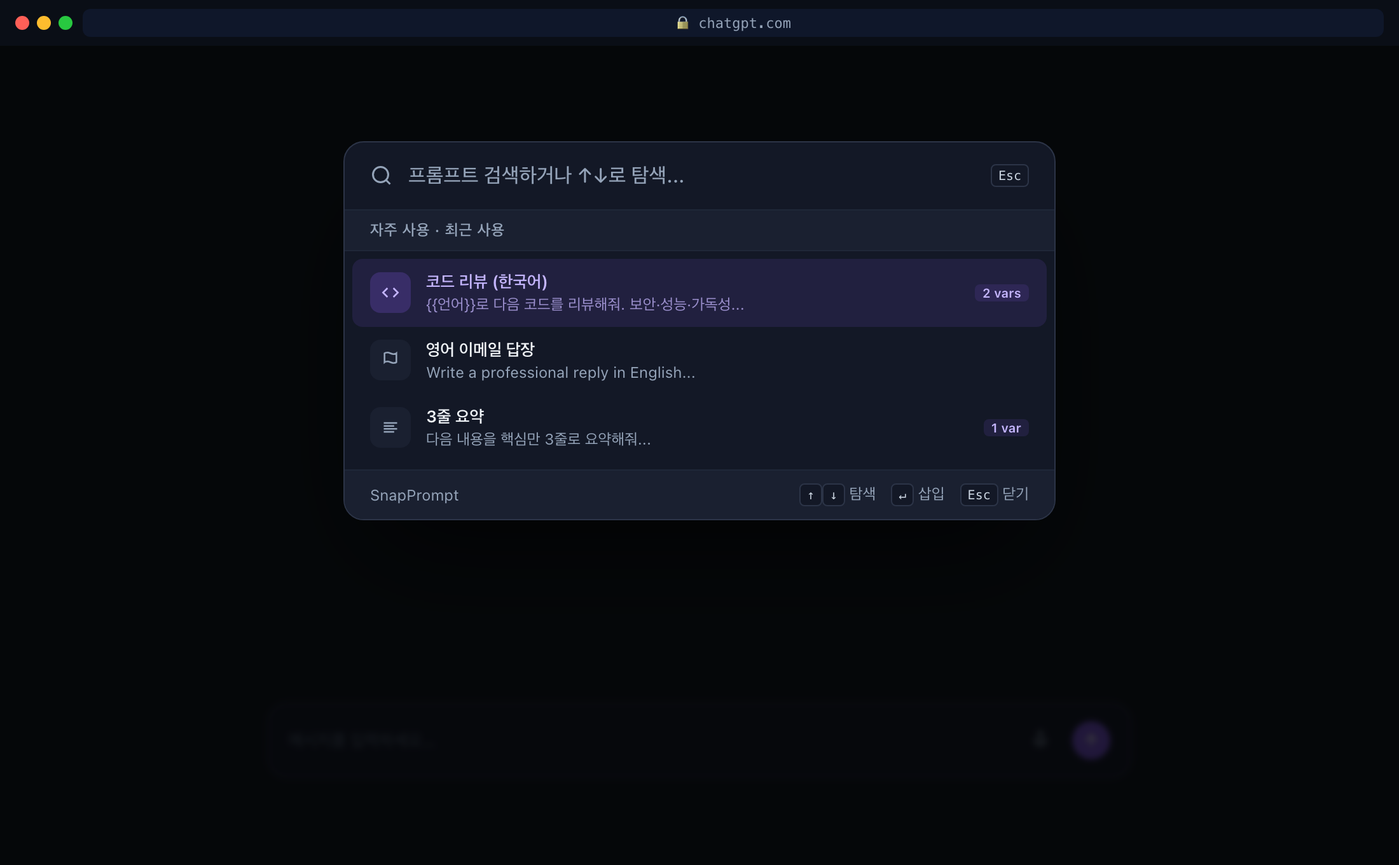
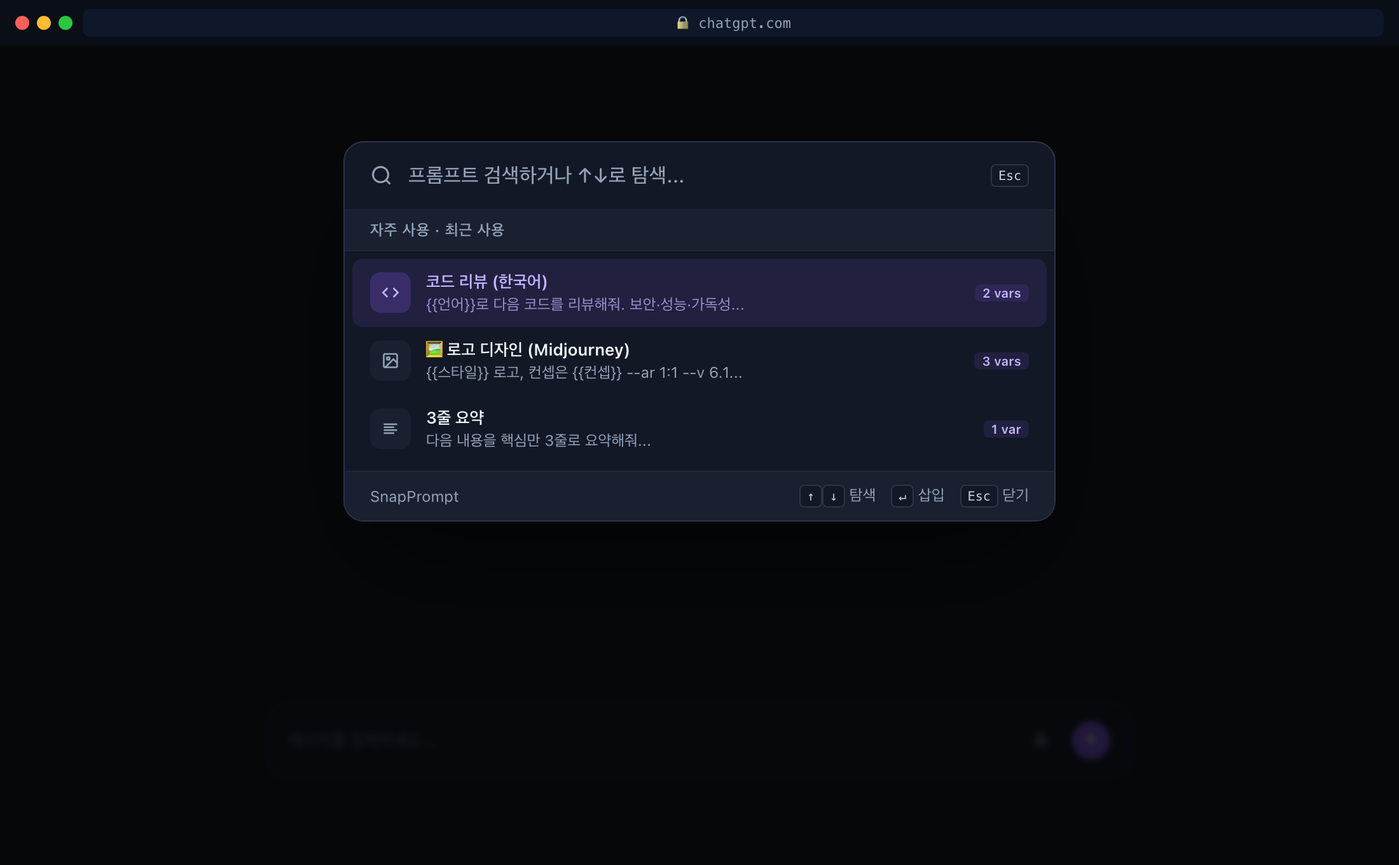
docs: README 스크린샷 일괄 갱신 (Round B/C/D 반영)
- design/shots.html을 현재 UI에 동기화: 팝업 모드 전환기·핀 바·종류 배지,
  피커 배지, 변수 모달(최근 사용값·파라미터 토글·조립 프리뷰),
  옵션 '기록' 탭. 신규 프레임 image(이미지/영상 옵션)·history(버전·비교) 추가.
- docs/images/* 8장 헤드리스 2x 재생성 + image.png·history.png 신규.
- README: 변수 8타입+조건부 표, 이미지·영상 옵션/버전 히스토리·A/B 섹션,
  마지막 모드 기억, 프로젝트 구조(components·assemble·imageparams·10탭) 갱신.
- CLAUDE.md 스크린샷 절차에 신규 프레임/사이즈 반영.

🤖 Generated with [Claude Code](https://claude.com/claude-code)

diff --git a/design/shots.html b/design/shots.html
@@ -160,6 +160,55 @@
   .track i{display:block;height:100%;background:var(--grad);border-radius:var(--r-full)}
   .bs{width:48px;text-align:right;font-size:11px;color:var(--text-muted);font-family:var(--mono)}
 
+  /* ===== Round C/D additions ===== */
+  /* mode switch + pin bar + kind badge (popup) */
+  .modesw{display:inline-flex;gap:2px;padding:2px;border-radius:var(--r-md);background:var(--bg-subtle)}
+  .modesw .m{width:26px;height:24px;border-radius:var(--r-sm);display:grid;place-items:center;color:var(--text-muted)}
+  .modesw .m.on{background:var(--grad);color:#fff}
+  .pinbar{display:flex;gap:6px;flex-wrap:wrap;padding:10px 10px 2px}
+  .pin{display:inline-flex;align-items:center;gap:5px;height:26px;padding:0 10px;border-radius:var(--r-full);border:1px solid var(--border-default);background:var(--bg-surface);font-size:11px;color:var(--text-secondary)}
+  .pin .star{color:var(--warning-500)}
+  .kind{font-size:13px;flex-shrink:0}
+  /* param toggles + recent chips (vars modal) */
+  .ptog{display:flex;flex-direction:column;gap:9px}
+  .prow{display:flex;align-items:center;gap:10px}
+  .prow.off{opacity:.5}
+  .sw{width:34px;height:19px;border-radius:var(--r-full);background:var(--accent);position:relative;flex-shrink:0}
+  .sw.off{background:var(--border-default)}
+  .sw::after{content:'';width:15px;height:15px;border-radius:50%;background:#fff;position:absolute;top:2px;left:17px}
+  .sw.off::after{left:2px}
+  .pname{flex:1;font-size:13px}
+  .pval{height:28px;padding:0 9px;border:1px solid var(--border-default);border-radius:var(--r-sm);background:var(--bg-surface);font-size:12px;display:inline-flex;align-items:center;color:var(--text-secondary);font-family:var(--mono)}
+  .recent{display:flex;align-items:center;gap:6px;flex-wrap:wrap}
+  .rlbl{font-size:11px;color:var(--text-muted)}
+  .rchip{padding:3px 9px;border-radius:var(--r-full);border:1px solid var(--border-default);background:var(--bg-surface);font-size:11px;color:var(--text-secondary)}
+  /* image options editor */
+  .ioseg{display:inline-flex;gap:2px;padding:2px;border-radius:var(--r-md);background:var(--bg-subtle)}
+  .ioseg .s{padding:5px 13px;border-radius:var(--r-sm);font-size:.75rem;color:var(--text-secondary);font-weight:var(--w-med)}
+  .ioseg .s.on{background:var(--grad);color:#fff}
+  .iosec{border:1px solid var(--border-subtle);border-radius:var(--r-md);padding:12px;display:flex;flex-direction:column;gap:10px;background:var(--bg-surface)}
+  .iohd{font-size:.75rem;font-weight:var(--w-semi);color:var(--text-primary)}
+  .iochips{display:flex;flex-wrap:wrap;gap:5px}
+  .iochip{padding:3px 9px;border-radius:var(--r-full);border:1px solid var(--border-default);background:var(--bg-surface);font-size:11px;color:var(--text-secondary)}
+  .iopack{font-size:11px;color:var(--text-muted)}
+  .ioout{font-family:var(--mono);font-size:11.5px;line-height:1.55;color:var(--text-secondary);background:var(--bg-subtle);border-radius:var(--r-sm);padding:10px;white-space:pre-wrap}
+  .iotok{font-family:var(--mono);font-size:11px;color:var(--text-accent);background:var(--bg-subtle);padding:2px 7px;border-radius:4px;align-self:flex-start}
+  /* history */
+  .dhwrap{border:1px solid var(--border-subtle);border-radius:var(--r-md);padding:12px;display:flex;flex-direction:column;gap:8px;background:var(--bg-surface)}
+  .dhhd{display:flex;align-items:center;justify-content:space-between}
+  .dhrow{display:flex;align-items:center;gap:9px;padding:7px 8px;border-radius:var(--r-sm);border:1px solid transparent}
+  .dhrow.sel{border-color:var(--border-accent);background:var(--accent-soft)}
+  .dhck{width:15px;height:15px;border:1.5px solid var(--border-default);border-radius:3px;flex-shrink:0;display:grid;place-items:center}
+  .dhrow.sel .dhck{background:var(--accent);border-color:var(--accent);color:#fff}
+  .dhm{flex:1;min-width:0}
+  .dht{font-size:11px;color:var(--text-secondary);font-weight:var(--w-med)}
+  .dhp{font-size:11px;color:var(--text-muted);white-space:nowrap;overflow:hidden;text-overflow:ellipsis}
+  .dhre{font-size:11px;padding:3px 10px;border:1px solid var(--border-default);border-radius:var(--r-sm);color:var(--text-secondary)}
+  .dhcmp{display:flex;gap:8px}
+  .dhcol{flex:1;min-width:0;display:flex;flex-direction:column;gap:4px}
+  .dhch{font-size:11px;font-weight:var(--w-semi);color:var(--text-accent)}
+  .dhcb{font-family:var(--mono);font-size:11px;line-height:1.5;color:var(--text-secondary);background:var(--bg-subtle);border-radius:var(--r-sm);padding:8px;white-space:pre-wrap}
+
   /* ===== onboarding ===== */
   .ob{width:min(960px,94vw);background:var(--bg-surface);border:1px solid var(--border-subtle);border-radius:var(--r-3xl);box-shadow:var(--sh-2xl);overflow:hidden;display:grid;grid-template-columns:340px 1fr;min-height:520px}
   .ob-hero{background:linear-gradient(160deg,var(--violet-500),var(--violet-700) 55%,var(--violet-900));color:#fff;padding:40px 32px;display:flex;flex-direction:column}
@@ -189,8 +238,11 @@
       <div class="nm">SnapPrompt</div>
       <div class="hacts">
         <div class="ib"><svg width="14" height="14" viewBox="0 0 24 24" fill="none" stroke="currentColor" stroke-width="2.4"><line x1="12" y1="5" x2="12" y2="19"/><line x1="5" y1="12" x2="19" y2="12"/></svg></div>
-        <div class="ib"><svg width="14" height="14" viewBox="0 0 24 24" fill="none" stroke="currentColor" stroke-width="2"><rect x="3" y="4" width="18" height="16" rx="2"/><path d="M3 9h18"/></svg></div>
-        <div class="ib"><svg width="14" height="14" viewBox="0 0 24 24" fill="none" stroke="currentColor" stroke-width="2"><rect x="3" y="4" width="18" height="16" rx="2"/><path d="M15 4v16"/></svg></div>
+        <div class="modesw">
+          <div class="m on"><svg width="14" height="14" viewBox="0 0 24 24" fill="none" stroke="currentColor" stroke-width="2"><rect x="4" y="9" width="16" height="11" rx="2"/><path d="M12 9V3"/><path d="M9 6l3-3 3 3"/></svg></div>
+          <div class="m"><svg width="14" height="14" viewBox="0 0 24 24" fill="none" stroke="currentColor" stroke-width="2"><rect x="3" y="4" width="18" height="16" rx="2"/><path d="M3 9h18"/></svg></div>
+          <div class="m"><svg width="14" height="14" viewBox="0 0 24 24" fill="none" stroke="currentColor" stroke-width="2"><rect x="3" y="4" width="18" height="16" rx="2"/><path d="M15 4v16"/></svg></div>
+        </div>
         <div class="ib"><svg width="14" height="14" viewBox="0 0 24 24" fill="none" stroke="currentColor" stroke-width="2"><circle cx="12" cy="12" r="3"/><path d="M19.4 15a1.65 1.65 0 0 0 .33 1.82l.06.06a2 2 0 1 1-2.83 2.83l-.06-.06a1.65 1.65 0 0 0-1.82-.33 1.65 1.65 0 0 0-1 1.51V21a2 2 0 0 1-4 0v-.09A1.65 1.65 0 0 0 9 19.4a1.65 1.65 0 0 0-1.82.33l-.06.06a2 2 0 1 1-2.83-2.83l.06-.06a1.65 1.65 0 0 0 .33-1.82 1.65 1.65 0 0 0-1.51-1H3a2 2 0 0 1 0-4h.09A1.65 1.65 0 0 0 4.6 9a1.65 1.65 0 0 0-.33-1.82l-.06-.06a2 2 0 1 1 2.83-2.83l.06.06a1.65 1.65 0 0 0 1.82.33H9a1.65 1.65 0 0 0 1-1.51V3a2 2 0 0 1 4 0v.09a1.65 1.65 0 0 0 1 1.51 1.65 1.65 0 0 0 1.82-.33l.06-.06a2 2 0 1 1 2.83 2.83l-.06.06a1.65 1.65 0 0 0-.33 1.82V9a1.65 1.65 0 0 0 1.51 1H21a2 2 0 0 1 0 4h-.09a1.65 1.65 0 0 0-1.51 1z"/></svg></div>
       </div>
     </div>
@@ -214,9 +266,14 @@
         <div class="fld"><span style="color:var(--text-accent)">#</span>영어<span class="c">5</span></div>
       </div>
       <div class="list">
+        <div class="pinbar">
+          <span class="pin"><svg class="star" width="11" height="11" viewBox="0 0 24 24" fill="currentColor"><polygon points="12 2 15 8 22 9 17 14 18 21 12 18 6 21 7 14 2 9 9 8"/></svg>코드 리뷰</span>
+          <span class="pin"><svg class="star" width="11" height="11" viewBox="0 0 24 24" fill="currentColor"><polygon points="12 2 15 8 22 9 17 14 18 21 12 18 6 21 7 14 2 9 9 8"/></svg>로고 디자인</span>
+          <span class="pin"><svg class="star" width="11" height="11" viewBox="0 0 24 24" fill="currentColor"><polygon points="12 2 15 8 22 9 17 14 18 21 12 18 6 21 7 14 2 9 9 8"/></svg>3줄 요약</span>
+        </div>
         <div class="card"><div class="h"><div class="chk"></div><svg class="star" width="13" height="13" viewBox="0 0 24 24" fill="currentColor"><polygon points="12 2 15 8 22 9 17 14 18 21 12 18 6 21 7 14 2 9 9 8"/></svg><div class="ct">코드 리뷰 (한국어)</div><span class="vb">2 vars</span></div><div class="cp">{{언어}}로 다음 코드를 리뷰해줘. 보안·성능·가독성 관점에서...</div><div class="cm"><span class="tag">코딩</span><span class="tag">리뷰</span><div class="acts"><span class="a">복사</span><span class="a pri">삽입</span></div></div></div>
-        <div class="card"><div class="h"><div class="chk"></div><div class="ct">영어 이메일 답장</div></div><div class="cp">Write a professional reply in English. Keep it concise...</div><div class="cm"><span class="tag">이메일</span><div class="acts"><span class="a">복사</span><span class="a pri">삽입</span></div></div></div>
-        <div class="card"><div class="h"><div class="chk"></div><svg class="star" width="13" height="13" viewBox="0 0 24 24" fill="currentColor"><polygon points="12 2 15 8 22 9 17 14 18 21 12 18 6 21 7 14 2 9 9 8"/></svg><div class="ct">3줄 요약</div><span class="vb">1 var</span></div><div class="cp">다음 내용을 핵심만 3줄로 요약해줘...</div><div class="cm"><span class="tag">요약</span><div class="acts"><span class="a">복사</span><span class="a pri">삽입</span></div></div></div>
+        <div class="card"><div class="h"><div class="chk"></div><svg class="star" width="13" height="13" viewBox="0 0 24 24" fill="currentColor"><polygon points="12 2 15 8 22 9 17 14 18 21 12 18 6 21 7 14 2 9 9 8"/></svg><span class="kind">🖼</span><div class="ct">로고 디자인 (Midjourney)</div><span class="vb">3 vars</span></div><div class="cp">{{스타일}} 로고, 컨셉은 {{컨셉}}. 메인 컬러 {{메인색}} --ar 1:1 --v 6.1</div><div class="cm"><span class="tag">이미지</span><span class="tag">로고</span><div class="acts"><span class="a">복사</span><span class="a pri">삽입</span></div></div></div>
+        <div class="card"><div class="h"><div class="chk"></div><div class="ct">3줄 요약</div><span class="vb">1 var</span></div><div class="cp">다음 내용을 핵심만 3줄로 요약해줘...</div><div class="cm"><span class="tag">요약</span><div class="acts"><span class="a">복사</span><span class="a pri">삽입</span></div></div></div>
       </div>
     </div>
     <div class="foot"><div class="new"><svg width="13" height="13" viewBox="0 0 24 24" fill="none" stroke="#fff" stroke-width="2.5" stroke-linecap="round"><line x1="12" y1="5" x2="12" y2="19"/><line x1="5" y1="12" x2="19" y2="12"/></svg>새 프롬프트</div><span class="cnt">12개</span></div>
@@ -235,7 +292,7 @@
         <div class="pk-meta">자주 사용 · 최근 사용</div>
         <div class="pk-list">
           <div class="pk-item on"><div class="pk-ic"><svg width="14" height="14" viewBox="0 0 24 24" fill="none" stroke="currentColor" stroke-width="2.2"><polyline points="16 18 22 12 16 6"/><polyline points="8 6 2 12 8 18"/></svg></div><div class="pk-c"><div class="pk-t">코드 리뷰 (한국어)</div><div class="pk-p">{{언어}}로 다음 코드를 리뷰해줘. 보안·성능·가독성...</div></div><span class="vb">2 vars</span></div>
-          <div class="pk-item"><div class="pk-ic"><svg width="14" height="14" viewBox="0 0 24 24" fill="none" stroke="currentColor" stroke-width="2.2"><path d="M4 15s1-1 4-1 5 2 8 2 4-1 4-1V3s-1 1-4 1-5-2-8-2-4 1-4 1z"/></svg></div><div class="pk-c"><div class="pk-t">영어 이메일 답장</div><div class="pk-p">Write a professional reply in English...</div></div></div>
+          <div class="pk-item"><div class="pk-ic"><svg width="14" height="14" viewBox="0 0 24 24" fill="none" stroke="currentColor" stroke-width="2.2"><rect x="3" y="3" width="18" height="18" rx="2"/><circle cx="9" cy="9" r="2"/><path d="M21 15l-5-5L5 21"/></svg></div><div class="pk-c"><div class="pk-t"><span class="kind">🖼</span> 로고 디자인 (Midjourney)</div><div class="pk-p">{{스타일}} 로고, 컨셉은 {{컨셉}} --ar 1:1 --v 6.1...</div></div><span class="vb">3 vars</span></div>
           <div class="pk-item"><div class="pk-ic"><svg width="14" height="14" viewBox="0 0 24 24" fill="none" stroke="currentColor" stroke-width="2.2"><line x1="17" y1="10" x2="3" y2="10"/><line x1="21" y1="6" x2="3" y2="6"/><line x1="21" y1="14" x2="3" y2="14"/><line x1="17" y1="18" x2="3" y2="18"/></svg></div><div class="pk-c"><div class="pk-t">3줄 요약</div><div class="pk-p">다음 내용을 핵심만 3줄로 요약해줘...</div></div><span class="vb">1 var</span></div>
         </div>
         <div class="pk-foot"><span>SnapPrompt</span><span class="pk-hints"><span><span class="kbd">↑</span><span class="kbd">↓</span> 탐색</span><span><span class="kbd">↵</span> 삽입</span><span><span class="kbd">Esc</span> 닫기</span></span></div>
@@ -244,19 +301,26 @@
   </div>
 </div>
 
-<!-- =========== VARIABLE MODAL (with color picker) =========== -->
+<!-- =========== VARIABLE / OPTIONS MODAL (image prompt) =========== -->
 <div class="frame" data-shot="vars">
   <div class="modal">
-    <div class="mh"><div class="ic"><svg width="16" height="16" viewBox="0 0 24 24" fill="none" stroke="currentColor" stroke-width="2.2"><polyline points="16 18 22 12 16 6"/><polyline points="8 6 2 12 8 18"/></svg></div><div style="flex:1"><h3>로고 디자인 프롬프트</h3><div class="sub">3개 변수 채우기</div></div></div>
+    <div class="mh"><div class="ic"><svg width="16" height="16" viewBox="0 0 24 24" fill="none" stroke="currentColor" stroke-width="2.2"><polyline points="16 18 22 12 16 6"/><polyline points="8 6 2 12 8 18"/></svg></div><div style="flex:1"><h3>🖼 로고 디자인 (Midjourney)</h3><div class="sub">3개 변수 채우기</div></div></div>
     <div class="mb">
+      <div class="recent"><span class="rlbl">최근 사용값</span><span class="rchip">미니멀 · 친환경 커피</span><span class="rchip">레트로 · 게임 스튜디오</span></div>
       <div class="fl"><div class="lb"><span class="nt">{{스타일}}</span></div>
         <div class="inp">미니멀</div></div>
+      <div class="fl"><div class="lb"><span class="nt">{{컨셉}}</span></div>
+        <div class="inp">친환경 커피 브랜드</div></div>
       <div class="fl"><div class="lb"><span class="nt">{{메인색}}</span></div>
         <div class="colorrow"><div class="swatch" style="background:#7C3AED"></div><div class="inp" style="flex:1;font-family:var(--mono)">#7C3AED</div></div></div>
-      <div class="fl"><div class="lb"><span class="nt">{{컨셉}}</span></div>
-        <div class="ta">친환경 커피 브랜드</div></div>
+      <div class="fl"><div class="lb">파라미터</div>
+        <div class="ptog">
+          <div class="prow"><span class="sw"></span><span class="pname">화면비</span><span class="pval">--ar 1:1</span></div>
+          <div class="prow"><span class="sw"></span><span class="pname">버전</span><span class="pval">--v 6.1</span></div>
+          <div class="prow off"><span class="sw off"></span><span class="pname">Raw 스타일</span><span class="pval">--style raw</span></div>
+        </div></div>
       <div class="fl"><div class="lb">미리보기</div>
-        <div class="prev"><span class="hl">미니멀</span> 스타일의 로고를 디자인해줘. 메인 컬러는 <span class="hl">#7C3AED</span>, 컨셉은 <span class="hl">친환경 커피 브랜드</span>.</div></div>
+        <div class="prev"><span class="hl">미니멀</span> 스타일 로고, 컨셉은 <span class="hl">친환경 커피 브랜드</span>. 메인 컬러 <span class="hl">#7C3AED</span> <span style="color:var(--text-accent)">--ar 1:1 --v 6.1</span></div></div>
     </div>
     <div class="mf"><span style="font-size:11px;color:var(--text-muted)"><span class="kbd">⌘</span><span class="kbd">↵</span> 삽입</span><div class="btns"><span class="btn g">취소</span><span class="btn p">삽입 <span class="kbd" style="border-color:rgba(255,255,255,.3);background:rgba(255,255,255,.15);color:#fff">⌘↵</span></span></div></div>
   </div>
@@ -291,6 +355,7 @@
       <div class="nav">
         <div class="nt2"><svg width="16" height="16" viewBox="0 0 24 24" fill="none" stroke="currentColor" stroke-width="2"><circle cx="12" cy="12" r="3"/><circle cx="12" cy="12" r="9"/></svg>일반</div>
         <div class="nt2 on"><svg width="16" height="16" viewBox="0 0 24 24" fill="none" stroke="currentColor" stroke-width="2"><line x1="18" y1="20" x2="18" y2="10"/><line x1="12" y1="20" x2="12" y2="4"/><line x1="6" y1="20" x2="6" y2="14"/></svg>통계</div>
+        <div class="nt2"><svg width="16" height="16" viewBox="0 0 24 24" fill="none" stroke="currentColor" stroke-width="2"><circle cx="12" cy="12" r="10"/><polyline points="12 6 12 12 16 14"/></svg>기록</div>
         <div class="nt2"><svg width="16" height="16" viewBox="0 0 24 24" fill="none" stroke="currentColor" stroke-width="2"><path d="M14 2H6a2 2 0 0 0-2 2v16a2 2 0 0 0 2 2h12a2 2 0 0 0 2-2V8z"/></svg>프롬프트</div>
         <div class="nt2"><svg width="16" height="16" viewBox="0 0 24 24" fill="none" stroke="currentColor" stroke-width="2"><path d="M22 19a2 2 0 0 1-2 2H4a2 2 0 0 1-2-2V5a2 2 0 0 1 2-2h5l2 3h9a2 2 0 0 1 2 2z"/></svg>폴더</div>
         <div class="nt2"><svg width="16" height="16" viewBox="0 0 24 24" fill="none" stroke="currentColor" stroke-width="2"><path d="M20.59 13.41l-7.17 7.17a2 2 0 0 1-2.83 0L2 12V2h10l8.59 8.59a2 2 0 0 1 0 2.82z"/></svg>태그</div>
@@ -311,6 +376,48 @@
         </div>
       </div>
     </div>
+  </div>
+</div>
+
+<!-- =========== IMAGE OPTIONS EDITOR =========== -->
+<div class="frame" data-shot="image">
+  <div class="modal" style="width:560px">
+    <div class="mh"><div class="ic"><svg width="16" height="16" viewBox="0 0 24 24" fill="none" stroke="currentColor" stroke-width="2.2"><rect x="3" y="3" width="18" height="18" rx="2"/><circle cx="9" cy="9" r="2"/><path d="M21 15l-5-5L5 21"/></svg></div><div style="flex:1"><h3>로고 디자인</h3><div class="sub">이미지·영상 생성 옵션</div></div></div>
+    <div class="mb" style="gap:12px">
+      <div class="fl"><div class="lb">본문</div><div class="ta" style="min-height:48px">{{스타일}} 스타일의 로고. 컨셉은 {{컨셉}}, 메인 컬러 {{메인색}}.</div></div>
+      <div style="display:flex;align-items:center;gap:10px"><span style="font-size:.75rem;font-weight:var(--w-semi);color:var(--text-secondary)">종류</span>
+        <div class="ioseg"><span class="s">일반</span><span class="s on">🖼 이미지</span><span class="s">🎬 영상</span></div></div>
+      <div class="iosec">
+        <div class="iohd">파라미터</div>
+        <div><div class="iopack" style="margin-bottom:5px">Midjourney</div><div class="iochips"><span class="iochip">+ 화면비</span><span class="iochip">+ 버전</span><span class="iochip">+ 스타일화</span><span class="iochip">+ 카오스</span><span class="iochip">+ Raw 스타일</span><span class="iochip">+ 시드</span></div></div>
+        <div class="prow"><span class="sw"></span><span class="pname">화면비</span><span class="pval">1:1</span><span class="iotok">--ar 1:1</span></div>
+        <div class="prow"><span class="sw"></span><span class="pname">버전</span><span class="pval">6.1</span><span class="iotok">--v 6.1</span></div>
+      </div>
+      <div class="iosec"><div class="iohd">네거티브 프롬프트</div><div class="ta" style="min-height:38px">blurry, text, watermark, low quality</div></div>
+      <div class="iosec"><div class="iohd">출력 미리보기</div><div class="ioout">{{스타일}} 스타일의 로고. 컨셉은 {{컨셉}}, 메인 컬러 {{메인색}}. --ar 1:1 --v 6.1
+Negative prompt: blurry, text, watermark, low quality</div></div>
+    </div>
+    <div class="mf"><div class="btns"><span class="btn g">취소</span><span class="btn p">저장</span></div></div>
+  </div>
+</div>
+
+<!-- =========== HISTORY (versions + compare) =========== -->
+<div class="frame" data-shot="history">
+  <div class="modal" style="width:560px">
+    <div class="mh"><div class="ic"><svg width="16" height="16" viewBox="0 0 24 24" fill="none" stroke="currentColor" stroke-width="2.2"><circle cx="12" cy="12" r="10"/><polyline points="12 6 12 12 16 14"/></svg></div><div style="flex:1"><h3>코드 리뷰 (한국어)</h3><div class="sub">변경 기록 · 버전 비교</div></div></div>
+    <div class="mb" style="gap:12px">
+      <div class="dhwrap">
+        <div class="dhhd"><span class="iohd">변경 기록</span><span class="iopack">버전 3개</span></div>
+        <div class="dhrow sel"><span class="dhck"><svg width="9" height="9" viewBox="0 0 24 24" fill="none" stroke="#fff" stroke-width="3.5" stroke-linecap="round" stroke-linejoin="round"><polyline points="20 6 9 17 4 12"/></svg></span><div class="dhm"><div class="dht">현재 (편집 중)</div><div class="dhp">{{언어}}로 다음 코드를 보안·성능·가독성 관점에서 리뷰...</div></div></div>
+        <div class="dhrow sel"><span class="dhck"><svg width="9" height="9" viewBox="0 0 24 24" fill="none" stroke="#fff" stroke-width="3.5" stroke-linecap="round" stroke-linejoin="round"><polyline points="20 6 9 17 4 12"/></svg></span><div class="dhm"><div class="dht">2시간 전</div><div class="dhp">{{언어}}로 코드를 리뷰해줘. 개선점을 알려줘.</div></div><span class="dhre">되돌리기</span></div>
+        <div class="dhrow"><span class="dhck"></span><div class="dhm"><div class="dht">어제</div><div class="dhp">코드 리뷰해줘: {{code}}</div></div><span class="dhre">되돌리기</span></div>
+      </div>
+      <div class="dhcmp">
+        <div class="dhcol"><div class="dhch">현재 (편집 중)</div><div class="dhcb">{{언어}}로 다음 코드를 보안·성능·가독성 관점에서 우선순위와 함께 리뷰해줘.</div></div>
+        <div class="dhcol"><div class="dhch">2시간 전</div><div class="dhcb">{{언어}}로 코드를 리뷰해줘. 개선점을 알려줘.</div></div>
+      </div>
+    </div>
+    <div class="mf"><div class="btns"><span class="btn g">닫기</span><span class="btn p">저장</span></div></div>
   </div>
 </div>
 

diff --git a/README.md b/README.md
@@ -17,6 +17,8 @@
 - **저장** — 웹에서 텍스트 선택 → 우클릭 또는 단축키 → 제목·폴더·태그와 함께 저장
 - **꺼내쓰기** — 어떤 입력창에서든 단축키 → 검색 피커 → 현재 입력창에 자동 삽입
 - **변수** — `{{변수}}` 템플릿을 모달 폼으로 채워 완성된 프롬프트 삽입
+- **이미지·영상** — Midjourney·Pika 파라미터 토글, 네거티브 프롬프트, 레퍼런스 이미지 (사진/영상/이미지 생성용)
+- **반복·기록** — 편집 버전 히스토리·되돌리기·A/B 비교, 삽입 기록과 최근 사용값 재사용
 - **로컬 우선** — 모든 데이터는 브라우저에 저장, 외부 서버 없음 · JSON 백업 지원
 
 ---
@@ -28,10 +30,10 @@ ChatGPT·Claude·Gemini를 포함한 모든 입력창에서 Spotlight 스타일 
 
 <img src="docs/images/picker.png" width="640" alt="인라인 피커" />
 
-### 🧩 변수 템플릿 (6가지 타입)
-`{{name}}` · `{{name|기본값}}` 부터 드롭다운·날짜·숫자·**컬러 피커**까지. 꺼내 쓸 때 폼으로 채우면 실시간 미리보기로 결과를 확인할 수 있어요.
+### 🧩 변수 템플릿 (8가지 타입 + 조건부 블록)
+`{{name}}` · `{{name|기본값}}` 부터 드롭다운·날짜·숫자·컬러 피커·토글·코드 블록까지. 꺼내 쓸 때 폼으로 채우면 **실시간 미리보기**로 결과를 확인하고, **최근 사용값**을 한 번에 다시 채울 수 있어요. 이미지/영상 프롬프트라면 파라미터 토글도 같이 표시됩니다.
 
-<img src="docs/images/vars.png" width="520" alt="변수 입력 모달 (컬러 피커 포함)" />
+<img src="docs/images/vars.png" width="420" alt="변수·파라미터 입력 모달" />
 
 | 문법 | 입력 |
 | --- | --- |
@@ -42,24 +44,39 @@ ChatGPT·Claude·Gemini를 포함한 모든 입력창에서 Spotlight 스타일 
 | `{{name:date}}` | 날짜 |
 | `{{name:color}}` | 컬러 피커 |
 | `{{name:select(a,b,c)}}` | 드롭다운 |
+| `{{name:boolean}}` | 토글 |
+| `{{name:code(lang)}}` | 코드 블록(```` ``` ````로 감쌈) |
+| `{{#if name}}…{{/if}}` | 조건부 블록 |
 
 ### 💾 빠른 저장 + 중복 감지
 웹페이지에서 선택 → 우클릭으로 저장. 본문에서 변수를 자동 추출하고, 비슷한 프롬프트가 이미 있으면 경고합니다.
 
 <img src="docs/images/save.png" width="640" alt="저장 모달" />
 
+### 🖼 이미지·영상 생성 옵션
+프롬프트 종류를 **이미지/영상**으로 지정하면 생성 도구에 맞는 옵션이 열려요. **파라미터 토글**(Midjourney `--ar`·`--v`… / Pika `-ar`·`-motion`·`-camera`…)을 프리셋에서 추가하고, **네거티브 프롬프트**와 **레퍼런스 이미지**를 더하면 `[레퍼런스] [본문] [--파라미터] [네거티브]` 순서로 조립됩니다. 삽입할 때 파라미터를 그때그때 켜고 끌 수 있어요.
+
+<img src="docs/images/image.png" width="460" alt="이미지·영상 생성 옵션 편집기" />
+
+### 🕘 버전 히스토리 · A/B 비교 · 사용 기록
+프롬프트를 고칠 때마다 **직전 버전이 자동 저장**되어 언제든 되돌릴 수 있고, 두 버전(또는 현재 편집본)을 골라 **나란히 비교**할 수 있어요. 삽입·복사 기록은 옵션의 **"기록" 탭**에 남고, 변수 모달의 **최근 사용값** 칩으로 다시 꺼내 씁니다.
+
+<img src="docs/images/history.png" width="460" alt="버전 히스토리와 비교" />
+
 ### 🗂 폴더 계층 · 태그 · 드래그앤드롭
 무제한 깊이의 폴더 트리와 태그로 분류하고, 팝업에서 카드를 드래그해 폴더로 옮길 수 있어요 (다중 선택 지원).
 
-### ⚙ 설정 · 통계 · 백업
-테마(라이트/다크)·언어(한/영)·플로팅 버튼·사이트별 비활성화. 사용 통계 대시보드와 JSON 백업/복원, 자동 스냅샷까지.
+### ⚙ 설정 · 통계 · 기록 · 백업
+테마(라이트/다크)·언어(한/영)·플로팅 버튼·사이트별 비활성화. 사용 통계 대시보드, 삽입 **기록** 탭, JSON 백업/복원과 자동 스냅샷까지.
 
 <img src="docs/images/options.png" width="720" alt="옵션 - 통계" />
 
-### 🪟 3가지 사용 형태
+### 🪟 3가지 사용 형태 (마지막 모드 기억)
 - **툴바 팝업** — 기본
 - **분리된 창** — 자유롭게 이동·리사이즈, 상주
 - **사이드 패널** — 브라우저 옆에 도킹해 연속 삽입
+
+마지막으로 사용한 형태를 기억해, 다음에 아이콘을 누르면 그 형태로 바로 열립니다.
 
 ### 🚀 첫 설치 온보딩
 <img src="docs/images/onboarding.png" width="640" alt="온보딩" />
@@ -97,11 +114,12 @@ npm run dev        # Vite 개발 서버 → dist/ 가 HMR 연결됨
 
 ```
 src/
-├─ background/   서비스 워커 — 컨텍스트 메뉴, 단축키, 메시지 허브, 스냅샷, 자동 백업
-├─ content/      콘텐츠 스크립트 — Shadow DOM 피커·저장·변수 모달, 삽입 호환 레이어, 플로팅 버튼
-├─ popup/        팝업 — 검색·폴더 사이드바·DnD·인플레이스 편집·마크다운 미리보기
-├─ options/      설정 7+탭 — 일반·통계·프롬프트·폴더·태그·백업·단축키·데이터·정보 + 온보딩
-├─ shared/       types · store · variables · folders · search · backup · markdown · theme · i18n · messaging
+├─ background/   서비스 워커 — 컨텍스트 메뉴, 단축키, 메시지 허브, 액션 모드, 삽입 로그, 스냅샷·자동 백업
+├─ content/      콘텐츠 스크립트 — Shadow DOM 피커·저장·변수/파라미터 모달, 삽입 호환 레이어, 플로팅 버튼
+├─ popup/        팝업 — 검색·폴더 사이드바·핀 바·DnD·인플레이스 편집·마크다운 미리보기·모드 전환
+├─ options/      설정 10탭 — 일반·통계·기록·프롬프트·폴더·태그·백업·단축키·데이터·정보 + 온보딩
+├─ components/   공유 컴포넌트 — PromptOptionsEditor(이미지/영상 옵션) · PromptHistory(버전·비교)
+├─ shared/       types · store · variables · assemble · imageparams · folders · search · backup · markdown · theme · i18n · messaging
 └─ assets/icons/ 생성된 아이콘 (scripts/generate-icons.mjs)
 ```
 
